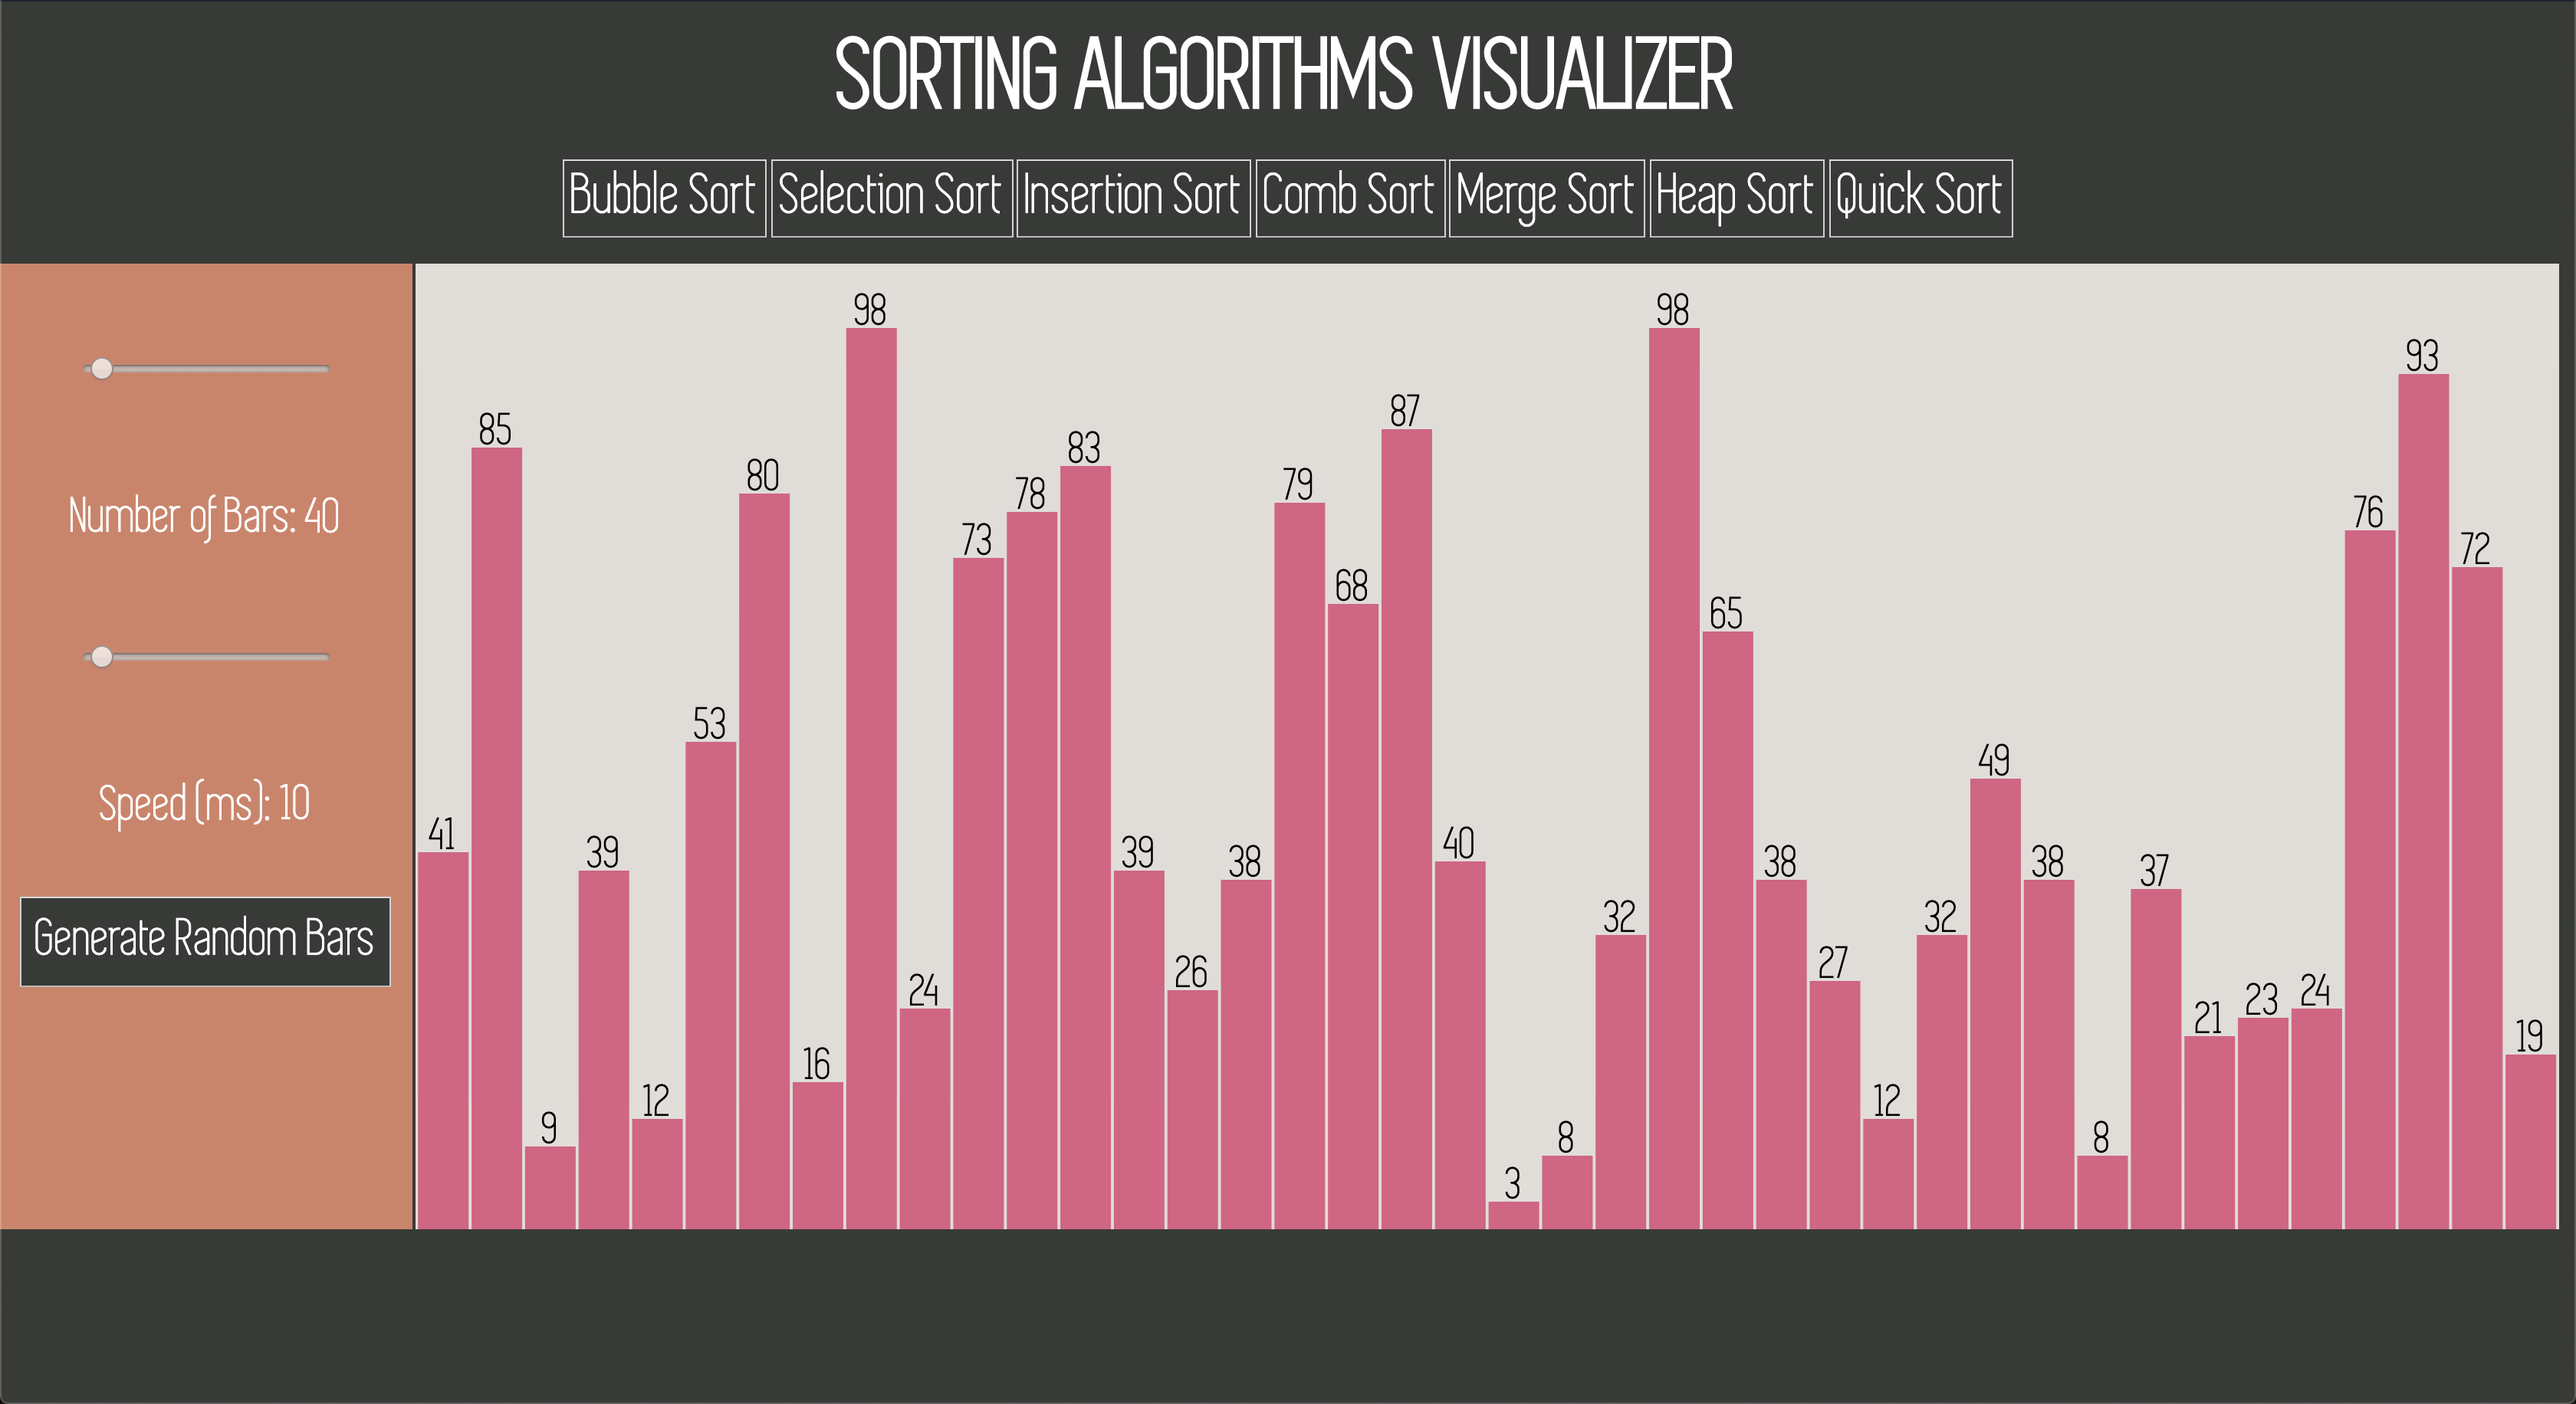
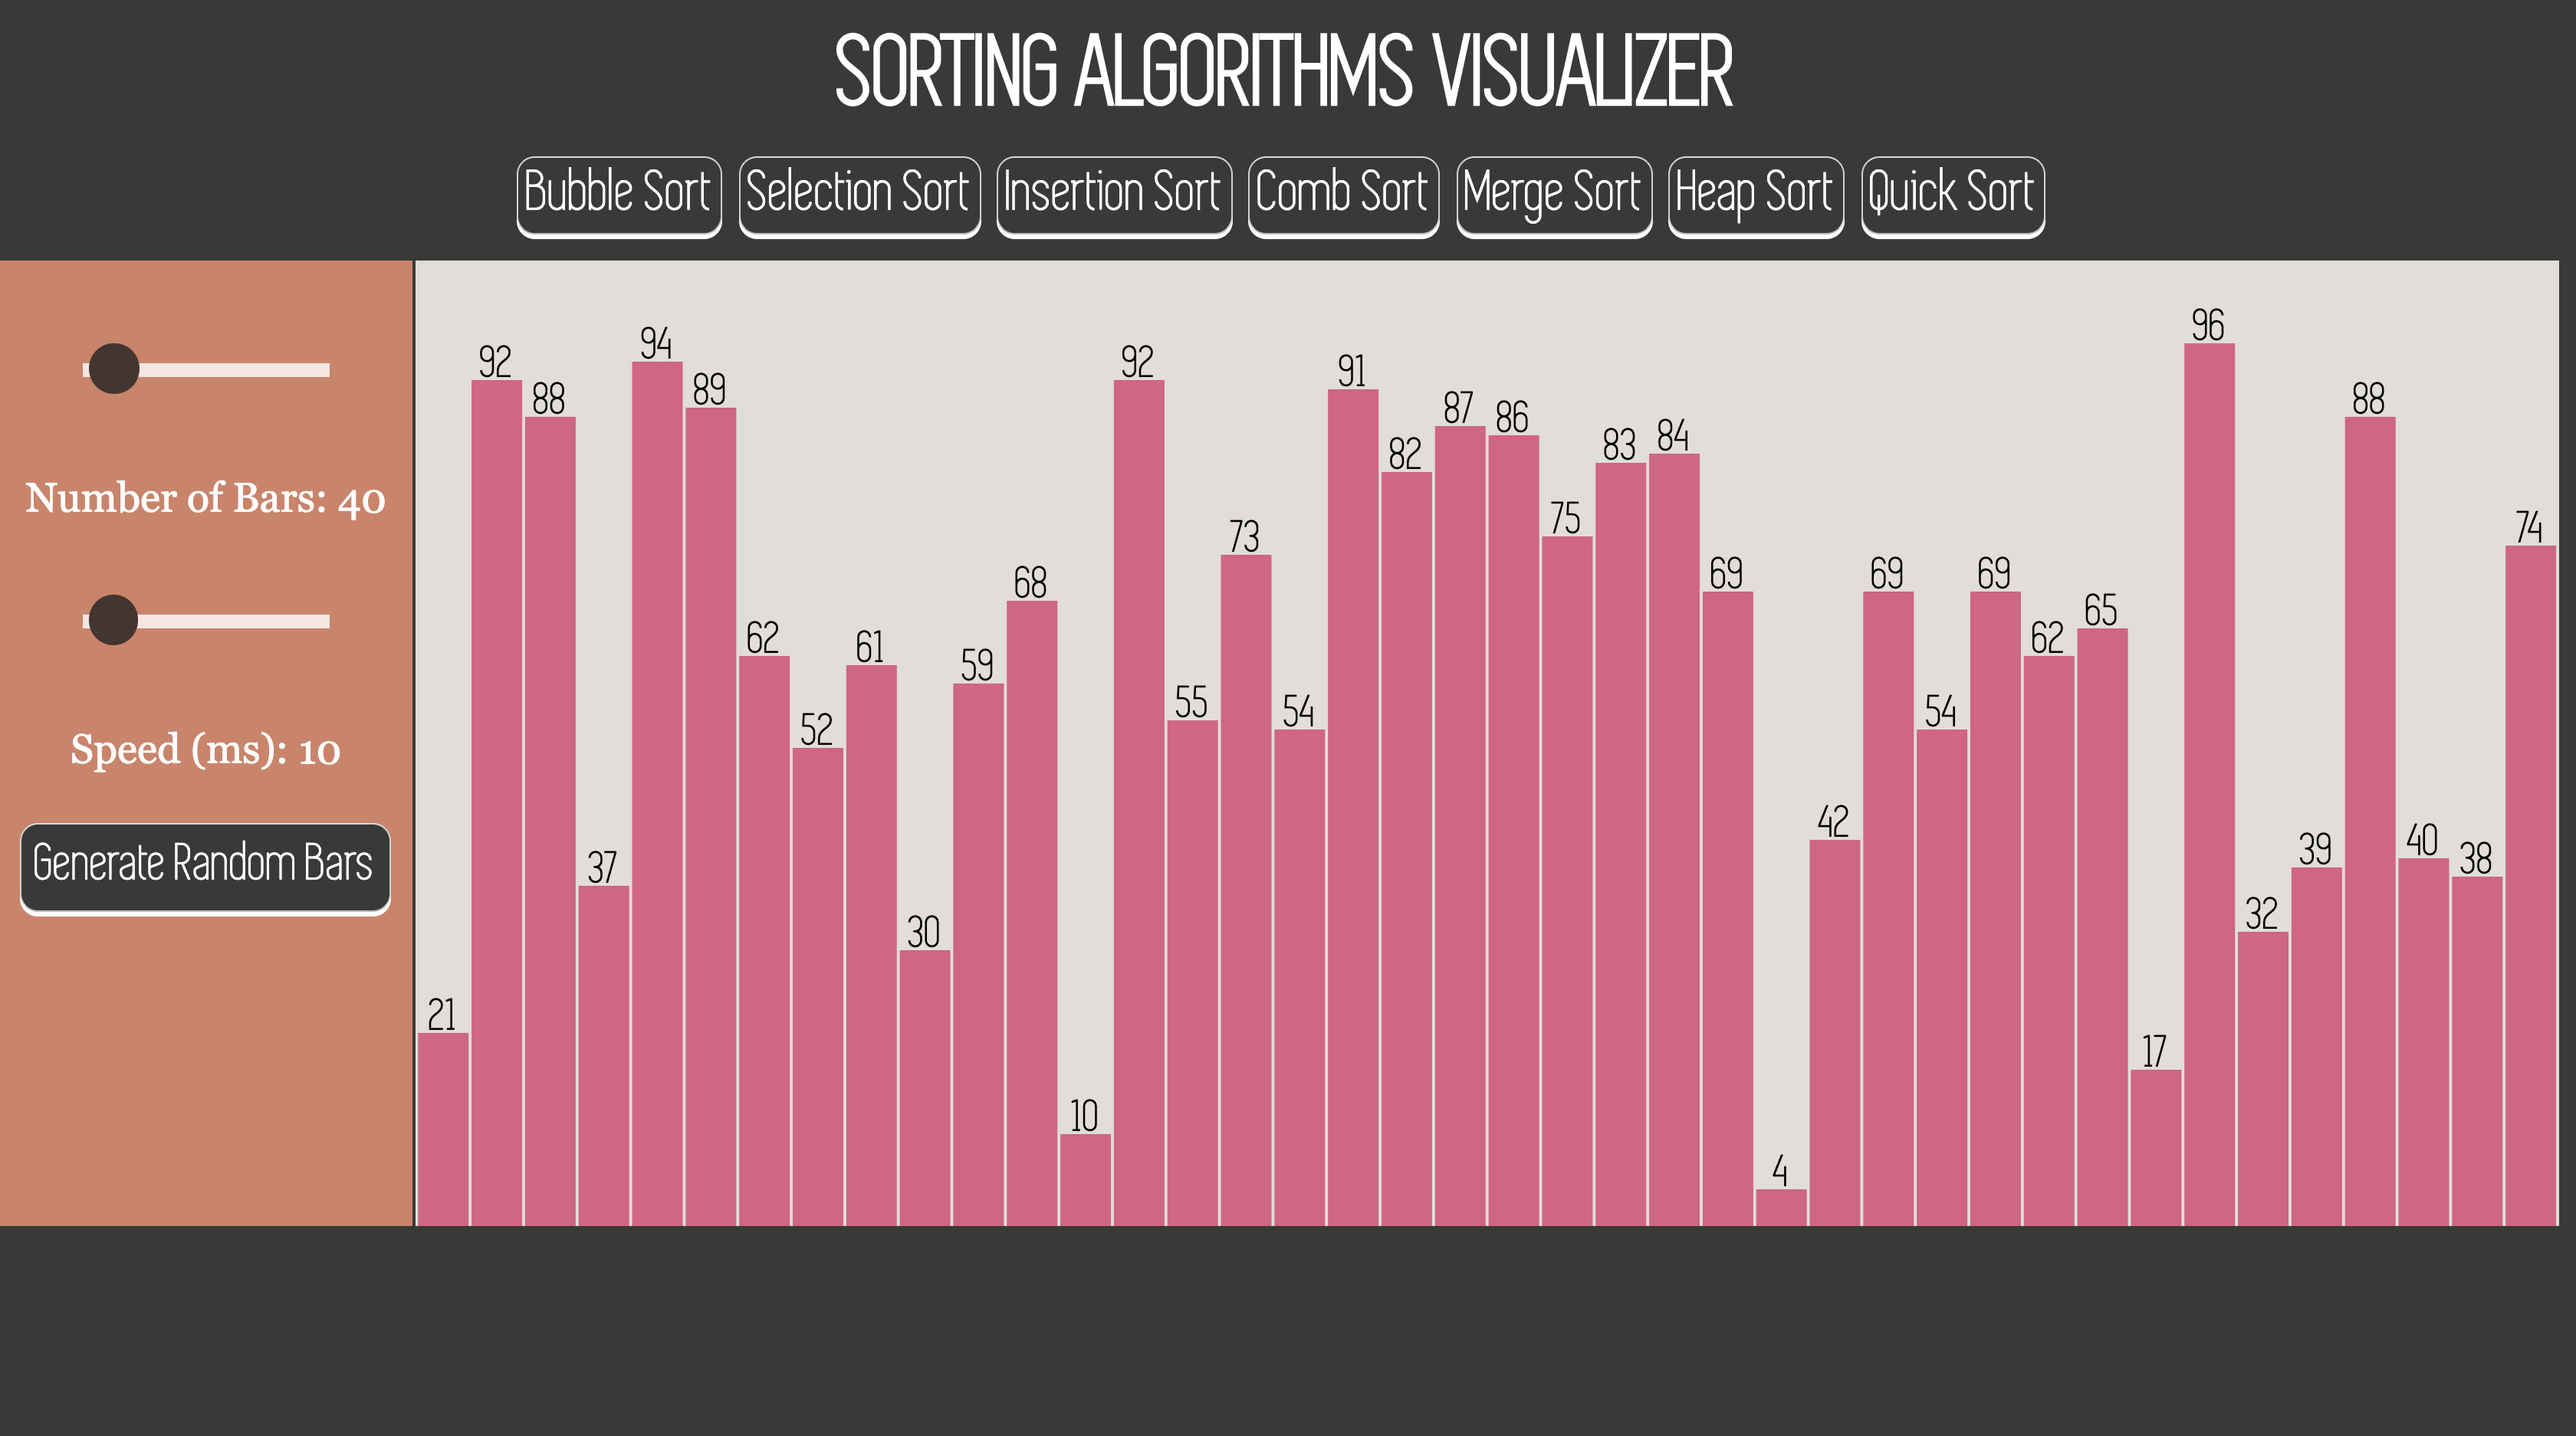
added gifs

diff --git a/src/styles2.css b/src/styles2.css
@@ -1,17 +1,17 @@
 @font-face {
-font-family: Simp;
-src: url(../fonts/SIMPLIFICA/SIMPLIFICATypeface.ttf) format('truetype');
-font-weight: normal;
+	font-family: Simp;
+	src: url(../fonts/SIMPLIFICA/SIMPLIFICATypeface.ttf) format('truetype');
+	font-weight: normal;
 }
 
 * {
-	font-family: Simp, Helvetica Neue,Helvetica,sans-serif;
+	font-family: Simp, Helvetica Neue, Helvetica, sans-serif;
 	color: black;
 }
 
 body {
-  background-color: #373a36;
-  position:relative;
+	background-color: #373a36;
+	position: relative;
 }
 
 .header {
@@ -25,14 +25,14 @@ body {
 .header2 {
 	font-size: 380%;
 	color: white;
-	padding:0%;
+	padding: 0%;
 	padding-top: 0.2%;
 	margin: 0%;
 }
 
 .data-box {
 	width: 83.2%;
-		/* width: 1200px; */
+	/* width: 1200px; */
 	height: 80vh;
 	position: static;
 	margin: 0 auto;
@@ -42,17 +42,17 @@ body {
 
 .bar {
 	/* border-radius: 15px 50px 30px 0px; */
-  position: absolute;
-  display:inline-block;
-  left: 16.5%;
-  bottom:0.5vh;
-	background-color:#de5d83;
+	position: absolute;
+	display: inline-block;
+	left: 16.5%;
+	bottom: 0.5vh;
+	background-color: #de5d83;
 	/* transition: 0.2s all ease; */
 }
 
 .bar_id {
 	position: absolute;
-  top: -28px;
+	top: -28px;
 	width: 100%;
 	text-align: center;
 	font-size: 1.8vw;
@@ -69,10 +69,10 @@ body {
 	margin-bottom: 1%;
 	color: white;
 	background-color: #373a36;
-  cursor: pointer;
+	cursor: pointer;
 	border-radius: 0.7vw;
 	margin-right: 0.5%;
-  box-shadow: 0vw 0.18vw white;
+	box-shadow: 0vw 0.18vw white;
 }
 
 .button[disabled] {
@@ -82,47 +82,66 @@ body {
 .button:active {
 	transform: translatex(0.18vw);
 	transform: translatey(0.18vw);
-	box-shadow: 0vw 0.1vw  rgb(230, 229, 229);
+	box-shadow: 0vw 0.1vw rgb(230, 229, 229);
 }
 
 .button:hover {
-     background: -webkit-linear-gradient(top, black, rgb(111, 108, 102));
-     border: 1px solid white;
+	background: -webkit-linear-gradient(top, black, rgb(111, 108, 102));
+	border: 1px solid white;
 }
 
 .button:focus {
-  outline: none;
+	outline: none;
 }
 
 .side {
-	background-color:#D48166;
+	background-color: #d48166;
 	vertical-align: top;
 	text-align: center;
 	width: 16%;
 	height: 80vh;
-	display:inline-block;
+	display: inline-block;
 	font-size: 2.3vw;
 	border-color: black;
 }
 
-span, p {
+span,
+p {
 	color: white;
 	/* font-family: Arial, Helvetica, sans-serif; */
 	font-size: 100%;
 	padding-top: 5%;
 }
 
-.myslider{
+.myslider {
+	-webkit-appearance: none;
 	width: 60%;
 	cursor: pointer;
 	opacity: 0.8;
-  -webkit-transition: .2s;
+	-webkit-transition: .2s;
 	transition: opacity .2s;
 }
 
+.myslider:focus {
+	outline: none;
+}
+
+.myslider::-webkit-slider-runnable-track {
+	background: white;
+	height: 1vmin;
+}
+
+.myslider::-webkit-slider-thumb {
+	-webkit-appearance: none;
+	height: 350%;
+	width: 20%;
+	background: #30322f;
+	margin-top: -6%;
+	border-radius: 50%;
+}
 
 .myslider:hover {
-  opacity: 1;
+	opacity: 1;
 }
 
 #foot {

diff --git a/src/styles.css b/src/styles.css
@@ -50,7 +50,7 @@ body {
 
 .bar_id {
 	position: absolute;
-	top: -28px;
+	top: -32px;
 	width: 100%;
 	text-align: center;
 	font-size: 1.8vw;
@@ -70,7 +70,7 @@ body {
 	cursor: pointer;
 	border-radius: 0.7vw;
 	margin-right: 0.5%;
-  box-shadow: 0vw 0.18vw white;
+	box-shadow: 0vw 0.18vw white;
 }
 
 .button[disabled] {
@@ -80,7 +80,7 @@ body {
 .button:active {
 	transform: translatex(0.18vw);
 	transform: translatey(0.18vw);
-	box-shadow: 0vw 0.1vw  rgb(230, 229, 229);
+	box-shadow: 0vw 0.1vw rgb(230, 229, 229);
 }
 
 .button:hover {
@@ -106,17 +106,36 @@ body {
 span,
 p {
 	color: white;
-	/* font-family: Arial, Helvetica, sans-serif; */
-	font-size: 2vw;
+	font-family: Georgia, 'Times New Roman', Times, sans-serif;
+	font-size: 1.6vw;
 	padding-top: 5%;
 }
 
 .myslider {
+	-webkit-appearance: none;
 	width: 60%;
 	cursor: pointer;
 	opacity: 0.8;
 	-webkit-transition: .2s;
 	transition: opacity .2s;
+}
+
+.myslider:focus {
+	outline: none;
+}
+
+.myslider::-webkit-slider-runnable-track {
+	background: white;
+	height: 1vmin;
+}
+
+.myslider::-webkit-slider-thumb {
+	-webkit-appearance: none;
+	height: 350%;
+	width: 20%;
+	background: #212221;
+	margin-top: -8%;
+	border-radius: 50%;
 }
 
 .myslider:hover {
